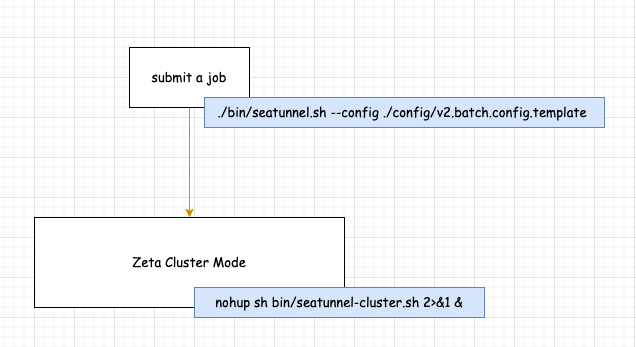
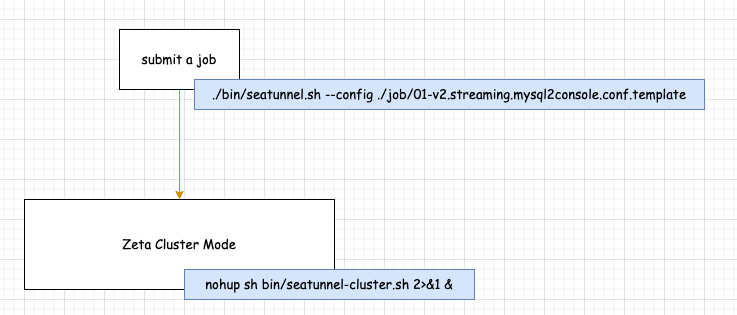
seatunnel

diff --git a/SeaTunnel/06-SeaTunnel Cluster Mode 下的作业提交流程调试环境搭建.md b/SeaTunnel/06-SeaTunnel Cluster Mode 下的作业提交流程调试环境搭建.md
@@ -1,0 +1,169 @@
+# SeaTunnel Cluster Mode 下的作业提交流程调试环境搭建           
+
+>Seatunnel version: 2.3.4, Zeta Cluster Mode
+
+## Job 提交结构图 
+![zetasubmit01](images/zetasubmit01.png)            
+
+上图中的内容，启动 Seatunnel zeta Cluster Server，只不过，Cluster 目前是单节点，往往我们在开发和测试阶段大多时候用的是单节点，这可简化我们时间成本。 你也可以通过 `curl`工具 请求 zeta clsuter rest api `http://192.168.0.201:5801/hazelcast/rest/cluster` 查看集群 `members`。  
+
+>注意：/hazelcast/rest/cluster 是由 hazelcast 提供的 Rest api，无需做任何处理，想了解更多，可访问 hazelcast官网。       
+
+## 获取 ./seatunnel --config ... 完成提交 Job 命令  
+修改 `bin/seatunnel.sh` 修改内容如下：      
+```shell
+#java ${JAVA_OPTS} -cp ${CLASS_PATH} ${APP_MAIN} ${args}   
+echo "java ${JAVA_OPTS} -cp ${CLASS_PATH} ${APP_MAIN} ${args}"   
+```
+
+打印出来的结果如下：    
+```bash
+[root@vm01 bin]# ./seatunnel.sh --config ../job/01-v2.streaming.mysql2console.conf.template 
+
+java  -Dhazelcast.client.config=/root/yzhou/seatunnel/apache-seatunnel-2.3.4/config/hazelcast-client.yaml -Dseatunnel.config=/root/yzhou/seatunnel/apache-seatunnel-2.3.4/config/seatunnel.yaml -Dhazelcast.config=/root/yzhou/seatunnel/apache-seatunnel-2.3.4/config/hazelcast.yaml -Dlog4j2.configurationFile=/root/yzhou/seatunnel/apache-seatunnel-2.3.4/config/log4j2_client.properties -Dseatunnel.logs.path=/root/yzhou/seatunnel/apache-seatunnel-2.3.4/logs -Dseatunnel.logs.file_name=seatunnel-starter-client -Xms256m -Xmx512m -XX:+HeapDumpOnOutOfMemoryError -cp /root/yzhou/seatunnel/apache-seatunnel-2.3.4/lib/*:/root/yzhou/seatunnel/apache-seatunnel-2.3.4/starter/seatunnel-starter.jar org.apache.seatunnel.core.starter.seatunnel.SeaTunnelClient --config ../job/01-v2.streaming.mysql2console.conf.template   
+```
+
+## 克隆 Seatunnel 并导入 Idea   
+```shell
+git clone git@github.com:apache/seatunnel.git  
+```
+
+导入 Idea 之后，参考官网“Set Up Develop Environment” https://seatunnel.apache.org/docs/2.3.4/contribution/setup, 执行以下命令，校验环境是否OK：     
+```shell
+mvn clean package -pl seatunnel-dist -am -Dmaven.test.skip=true    
+```
+
+## 配置 Idea 提交 Job 入口      
+当提交作业时，执行`./seatunnel.sh --config ../job/01-v2.streaming.mysql2console.conf.template` 会启动 1个 client 服务，它会调用 Hazelcast 跨节点访问方法与 seatunnel server 进行通信（后台进程），告诉 server 启动什么样配置作业。   
+![zetasubmit02](images/zetasubmit02.png)       
+
+所以，本人将 seatunnel client，server 3个不同的调试环节 配置成以下方式：    
+1.seatunnel client：采用 idea 本地 main()启动      
+2.seatunnel server：采用 idea 远程 debuger 启动   
+3.seatunnel client：采用 idea 远程 debuger 启动     
+
+
+>注意：需注意Seatunnel 官网文档介绍 `根据SeaTunnel Zeta Engine的使用要求，提交作业的SeaTunnel Client节点必须与运行作业的SeaTunnel Server节点具有相同的操作系统和安装目录结构。比如如果你想在本地IDEA中运行SeaTunnel Web，你必须在与IDEA相同的机器上安装和运行SeaTunnel Zeta引擎服务器。`  https://github.com/apache/seatunnel-web/blob/main/README_CN.md 
+
+当 Client 部署在windows时，而 Server 部署在linux 时，那client会识别 job配置信息后，将要加载的 jar的路径通过参数传递给 Server端，它会根据传过来的参数路径，来动态加载 Source，Sink jar， 所以会出现下图内容：    
+![zetasubmit03](images/zetasubmit03.png)   
+Job启动异常，在Server端 log 会提示找不到 source，sink相关的 class。   
+
+接下来，我们就详细介绍 `Idea Seatunnel Client` 与 `Linux Seatunnel Server` 之间联调步骤。       
+
+>注意：在真实场景中，Client 往往是单独部署，并不在 Server Cluster的某个节点部署，所以，接下来 我将 `Idea Seatunnel Client` 放在 `vm01`, `Linux Seatunnel Server` 放在 `vm02`。  
+
+### 将 Linux Seatunnel Server 安装包分别放入 vm01,vm02 相同路径下  & 启动
+1）首先在 vm01 节点上 安装 Seatunnel Server, 执行 bin/install-plugin.sh 拉取 connectors/connector-*-2.3.4.jar,  将必要数据驱动包放入 lib/ 目录下 
+```bash
+[root@vm02 apache-seatunnel-2.3.4]# cd lib/
+[root@vm02 lib]# ls
+mysql-connector-j-8.3.0.jar  seatunnel-hadoop3-3.1.4-uber.jar  seatunnel-transforms-v2.jar
+```
+
+2）配置 config/hazelcast.yaml，将`member-list` 修改为 vm01的 ip地址。              
+3）配置 SEATUNNEL_HOME 环境变量，保证 vm01,vm02 是一致的。            
+```bash
+export SEATUNNEL_HOME=/root/yzhou/seatunnel/apache-seatunnel-2.3.4
+export PATH=$SEATUNNEL_HOME/bin:$PATH
+```
+
+4）在 seatunnel server 根目录下，创建 start.sh, 内容如下： 
+```bash 
+[root@vm02 apache-seatunnel-2.3.4]# cat start.sh 
+nohup sh bin/seatunnel-cluster.sh 2>&1 &
+```
+
+5）然后根据 “SeaTunnel Server 开启远程调试端口” Blog，配置 Seatunnel 脚本的远程调试端口。      
+
+此时，执行`sh start.sh` 启动 server。       
+
+### vm01 安装 JetBrains Gateway        
+1）在 vm01 上克隆 Seatunnel 源码。      
+
+2）vm01 是 linux 操作系统，可安装 `JetBrains Gateway` 实现远程开发，请访问 `https://www.jetbrains.com/remote-development/gateway/` 自行了解， 它的作用是 远程开发 vm01 上的 Seatunnel 源码。  
+
+3）在 Seatunnel 源码根目录下，创建 `debug-config`,`job`,`lib` 3个文件夹。   
+* debug-config: 存放 Client启动时指定的 Seatunnel配置文件   
+修改`hazelcast-client.yaml`，内容如下： 
+```bash
+  network:
+    cluster-members:
+      - 192.168.0.201:5801
+```
+
+修改`hazelcast.yaml`, 内容如下：    
+```bash 
+    member-list:
+        - 192.168.0.201
+```
+
+* job：存放 Client 启动时指定的 Job配置文件      
+示例的job 配置内容如下：    
+```bash
+env {
+  parallelism = 1
+  job.mode = "STREAMING"
+  checkpoint.interval = 2000
+}
+
+source {
+  Jdbc {
+    url = "jdbc:mysql://192.168.0.202:3306/yzhou_test?serverTimezone=GMT%2b8"
+    driver = "com.mysql.cj.jdbc.Driver"
+    connection_check_timeout_sec = 100
+    user = "root"
+    password = "123456"
+    query = "select * from yzhou_test01"
+  }
+}
+
+sink {
+  Console {
+  }
+}
+```
+
+* lib：将 vm01或者vm02 Seatunnel Server 目录下的lib/ 拷贝到 源码目录下  
+
+
+### 配置 Gateway Idea 的启动参数
+![zetasubmit04](images/zetasubmit04.png)    
+
+**1）Application Submit Job**  
+
+`VM Options：`              
+```bash
+-Dhazelcast.client.config=/root/yzhou/Code/seatunnel-all/seatunnel234/debug-config/hazelcast-client.yaml
+-Dseatunnel.config=/root/yzhou/Code/seatunnel-all/seatunnel234/debug-config/seatunnel.yaml
+-Dhazelcast.config=/root/yzhou/Code/seatunnel-all/seatunnel234/debug-config/hazelcast.yaml
+-Dlog4j2.configurationFile=/root/yzhou/Code/seatunnel-all/seatunnel234/debug-config/log4j2_client.properties
+-Dseatunnel.logs.path=/root/yzhou/Code/seatunnel-all/seatunnel234/logs
+-Dseatunnel.logs.file_name=seatunnel-starter-client
+-Xms256m
+-Xmx512m
+-XX:+HeapDumpOnOutOfMemoryError
+```
+
+`Program arguments: `   
+```bash
+--config /root/yzhou/Code/seatunnel-all/seatunnel234/job/01-v2.streaming.mysql2console.conf.template
+```
+
+`配置 Modify classpath` 
+将 lib/ 目录下的jar 加载到 Idea中   
+![zetasubmit05](images/zetasubmit05.png)            
+
+完成配置图如下：    
+![zetasubmit06](images/zetasubmit06.png)            
+
+**2）Remote JVM Debug remote server**    
+![zetasubmit07](images/zetasubmit07.png)            
+
+**3）Remote JVM Debug remote client**       
+![zetasubmit08](images/zetasubmit08.png)    
+
+refer   
+1.https://seatunnel.apache.org/docs/2.3.4/connector-v2/sink/Socket     
+
+

diff --git a/SeaTunnel/06-SeaTunnel Cluster Mode 下的作业提交流程源码分析.md b/SeaTunnel/06-SeaTunnel Cluster Mode 下的作业提交流程源码分析.md
@@ -1,0 +1,11 @@
+# SeaTunnel Cluster Mode 下的作业提交流程源码分析           
+
+
+
+2024-04-12 03:48:48,100 INFO  [.s.p.d.AbstractPluginDiscovery] [main] - Load SeaTunnelSource Plugin from /root/yzhou/seatunnel/apache-seatunnel-2.3.4/connectors
+2024-04-12 03:48:48,110 INFO  [.s.p.d.AbstractPluginDiscovery] [main] - Discovery plugin jar for: PluginIdentifier{engineType='seatunnel', pluginType='source', pluginName='Jdbc'} at: file:/root/yzhou/seatunnel/apache-seatunnel-2.3.4/connectors/connector-jdbc-2.3.4.jar  
+
+......
+
+2024-04-12 03:48:48,119 INFO  [.s.p.d.AbstractPluginDiscovery] [main] - Load SeaTunnelSink Plugin from /root/yzhou/seatunnel/apache-seatunnel-2.3.4/connectors
+2024-04-12 03:48:48,120 INFO  [.s.p.d.AbstractPluginDiscovery] [main] - Discovery plugin jar for: PluginIdentifier{engineType='seatunnel', pluginType='sink', pluginName='Console'} at: file:/root/yzhou/seatunnel/apache-seatunnel-2.3.4/connectors/connector-console-2.3.4.jar
